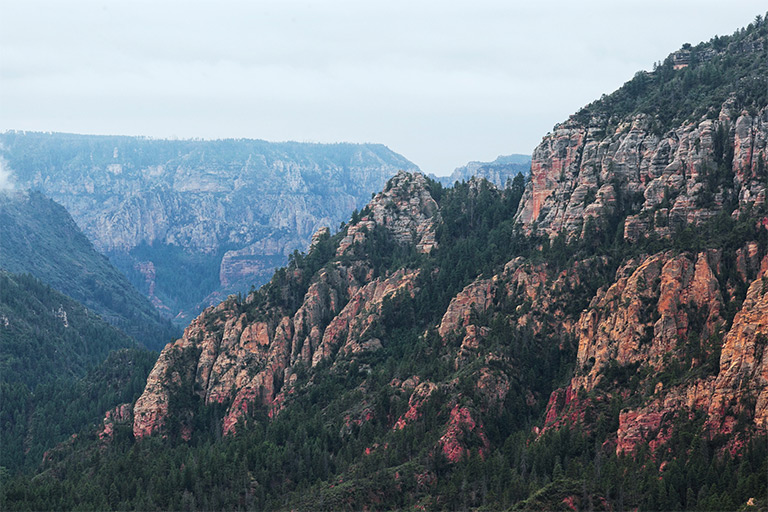
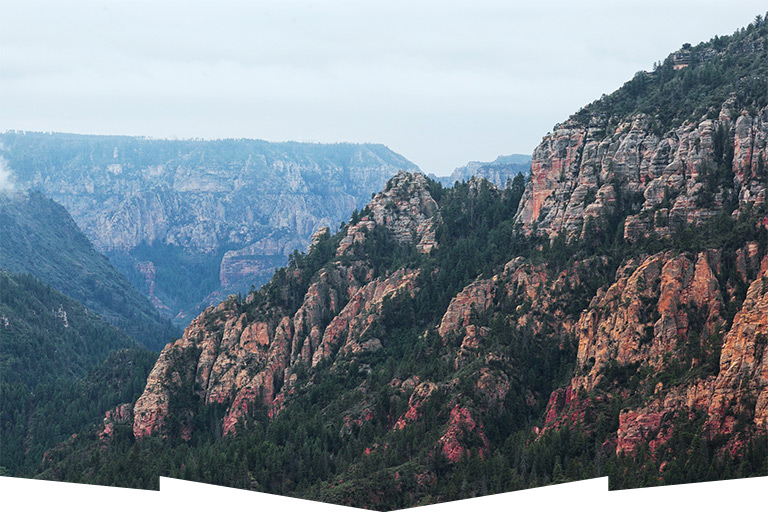
Сетка страниц

diff --git a/css/style.css b/css/style.css
@@ -1,4 +1,5 @@
 body {
+	width: 768px;
 	margin: 0;
 	padding: 0;
 	font-family: "PTSans", Arial, sans-serif;
@@ -12,7 +13,22 @@ a {
 	text-decoration: none;
 }
 
+.visually-hidden {
+	display: none;
+}
+
+.main-header {
+	min-height: 55px;
+}
+
 .main-navigation {
+	display: flex;
+	flex-direction: row;
+	align-items: center;
+	width: 768px;
+	margin: 0;
+	padding: 0;
+	min-height: 26px;
 	font-family: "PTSans", Arial, sans-serif;
 	font-size: 14px;
 	font-weight: bold;
@@ -22,11 +38,25 @@ a {
 	background-color: #ffffff;
 }
 
+.logo-sedona {
+	position: absolute;
+	z-index: 1;
+	left: 315px;
+	width: 140px;
+	height: 75px;
+}
+
 .main-navigation .menu {
+	display: flex;
+	justify-content: space-between;
+	align-items: center;
+	position: relative;
 	list-style: none;
 }
 
 .menu a {
+	display: block;
+	margin-top: auto;
 	color: #000000;
 }
 
@@ -44,6 +74,9 @@ a.selected-page {
 }
 
 .main-page {
+	display: flex;
+	flex-direction: column;
+	align-content: center;
 	font-family: "PTSans", Arial, sans-serif;
 	font-size: 14px;
 	font-weight: normal;
@@ -53,13 +86,20 @@ a.selected-page {
 }
 
 .tagline {
+	display: flex;
+	position: relative;
+	top: -5px;
+	justify-content: center;
+	align-items: center;
+	height: 512px;
 	background-color: #81b3d2;
 	background-image: 
-	    url("../img/main-view.jpg"),
-		url ("../img/main-view-mask.png");
+	    url("../img/main-view.jpg");
+	background-repeat: no-repeat;
 }
 
 .sedona-cool {
+	align-self: center;
 	font-size: 21px;
 	font-weight: bold;
 	line-height: 26px;
@@ -75,6 +115,11 @@ a.selected-page {
 }
 
 .advantages {
+	display: flex;
+	flex-wrap: wrap;
+	justify-content: space-between;
+	margin: 0;
+	padding: 0;
 	list-style: none;
 }
 
@@ -97,6 +142,7 @@ a.selected-page {
 
 .advantages.pictured,
 .advantages.pictured-2 {
+	width: 768px;
 	font-size: 14px;
 	line-height: 21px;
 	background-color: #81b3d2;
@@ -104,14 +150,24 @@ a.selected-page {
 
 
 .recomendations {
+	display: flex;
+	margin: 0;
+	padding: 0;
 	font-size: 14px;
 	line-height: 21px;
 	list-style: none;
 	text-align: center;
 }
 
-.block {
+.recomendations li {
+	width: 250px;
+}
+
+.advantages .block {
+	width: 255px;
+	flex-grow: 1;
 	font-size: 14px;
+	text-align: center;
 	line-height: 21px;
 	background-color: #eeeeee;
 	text-align: center;
@@ -131,6 +187,11 @@ a.selected-page {
 }
 
 .booking-form {
+	width: 567px;
+	display: flex;
+	flex-direction: column;
+	justify-content: center;
+	align-items: center;
 	font-size: 14px;
 	font-weight: bold;
 	line-height: 26px;
@@ -197,6 +258,7 @@ input.found-button {
 }
 
 .choose-hotel {
+	min-height: 220px;
 	font-family: "PTSans", Arial, sans-serif;
 	font-size: 14px;
 	font-weight: normal;
@@ -210,6 +272,28 @@ input.found-button {
 .about-hotel fieldset {
 	color: #ffffff;
 	border: none;
+}
+
+.about-hotel {
+	display: flex;
+}
+
+.hotel-structure {
+	width: 198px;
+	margin: auto 0;
+	margin-left: 46px;
+	margin-right: 59px;
+}
+
+.type-of-hotel {
+	width: 170px;
+	margin: auto 0;
+}
+
+.price {
+	width: 226px;
+	margin: auto 0;
+	margin-right: 46px;
 }
 
 .hotel-structure legend,
@@ -245,19 +329,37 @@ input.found-button {
 	background-color: #ffffff;
 }
 
+.results-of-search {
+	display: flex;
+	min-height: 86px;
+	margin: 0;
+	padding: 0;
+}
+
 .results-of-search p:first-of-type {
+	margin: auto 46px;
 	font-size: 21px;
 	font-weight: bold;
 	line-height: 26px;
 }
 
 .results-of-search p:last-of-type {
+	margin: auto 0;
+	margin-right: 40px;
 	font-size: 12px;
 	line-height: 18px;
 }
 
 .sort-for {
+	display: flex;
+	margin: 0;
+	padding: 0;
 	list-style: none;
+}
+
+.sort-for li {
+	margin: auto 0;
+	margin-right: 33px;
 }
 
 .sort-for a {
@@ -283,7 +385,15 @@ input.found-button {
 	text-decoration: none;
 }
 
+.sorting-results {
+	display: flex;
+	margin: 0;
+	padding: 0;
+}
+
 a.sorting-results {
+	margin: auto 0;
+	margin-right: 46px;
 	font-size: 12px;
 	line-height: 18px;
 	color: rgba(0,0,0,0.5);
@@ -296,6 +406,16 @@ a.sorting-results:focus{
 
 a.sorting-results:active {
 	color: #81b3d2;
+}
+
+.hotel-found {
+	display: flex;
+	margin: auto 46px;
+	padding: 0;
+}
+
+.hotel-found-description {
+	margin-left: 32px;
 }
 
 .hotel-found-description h3 {
@@ -362,10 +482,17 @@ a.booking-button:active {
 }
 
 .main-footer {
+	display: flex;
+	justify-content: space-between;
+	min-height: 120px;
+	text-transform: uppercase;
 	background-color: rgba (255,255,255,0.9);
 }
 
 .tag-sedona {
+	width: 255px;
+	margin: auto 0;
+	padding-left: 60px;
 	font-size: 21px;
 	font-weight: bold;
 	line-height: normal;
@@ -373,6 +500,8 @@ a.booking-button:active {
 }
 
 .social-networks {
+	width: 256px;
+	margin: auto 0;
 	text-align: center;
 	list-style: none;
 }
@@ -393,6 +522,8 @@ a.booking-button:active {
 }
 
 .creator {
+	width: 256px;
+	margin: auto 0;
 	text-align: center;
 }
 

diff --git a/inside-page.html b/inside-page.html
@@ -96,6 +96,7 @@
 					 <a href="#" class="booking-button">Забронировать</a>
 				 </div>
 				 <div class="hotel-found-rating">
+				     <div class="hotel-stars"></div>
                      <p>Рейтинг:8.5</p>
 				 </div>
 		     </section>
@@ -111,6 +112,7 @@
 					 <a href="#" class="booking-button">Забронировать</a>
 				 </div>
 				 <div class="hotel-found-rating">
+				 <div class="hotel-stars"></div>
                      <p>Рейтинг:8.9</p>
 				 </div>
 		     </section>
@@ -126,6 +128,7 @@
 					 <a href="#" class="booking-button">Забронировать</a>
 				 </div>
 				 <div class="hotel-found-rating">
+				 <div class="hotel-stars"></div>
                      <p>Рейтинг:9.2</p>
 				 </div>
 			 </section>	 
